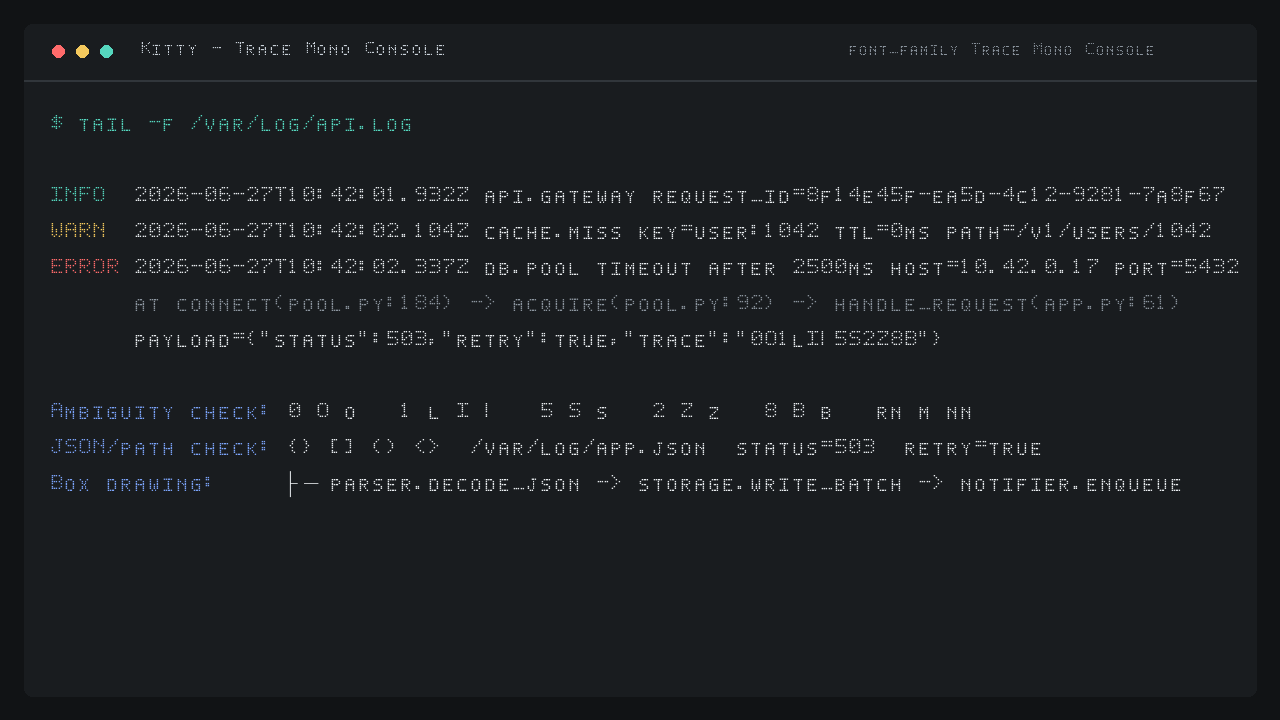
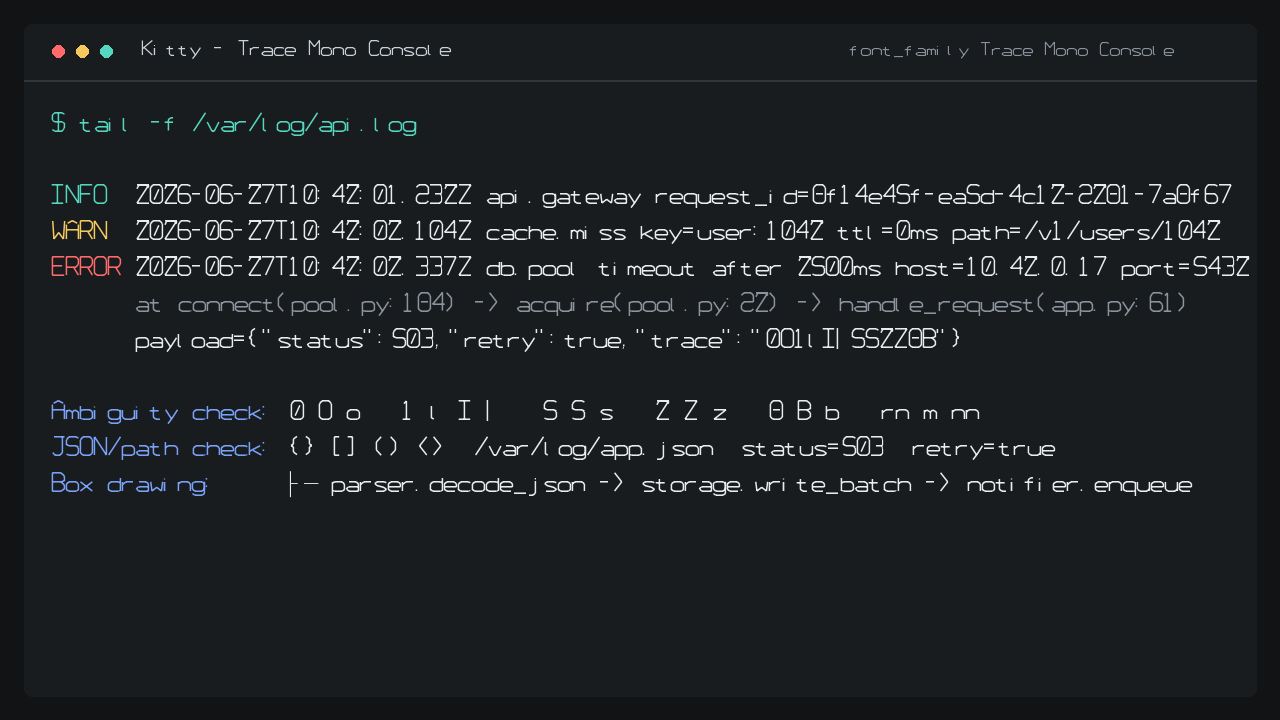
fix: redesign Trace Mono for terminal readability

diff --git a/tools/build.py b/tools/build.py
@@ -30,8 +30,8 @@ class Cut:
 
 
 CUTS = [
-    Cut("Trace Mono Console", "TraceMonoConsole-Regular.ttf", 600, 76, 72),
-    Cut("Trace Mono Inspect", "TraceMonoInspect-Regular.ttf", 640, 92, 70),
+    Cut("Trace Mono Console", "TraceMonoConsole-Regular.ttf", 600, 52, 84),
+    Cut("Trace Mono Inspect", "TraceMonoInspect-Regular.ttf", 640, 70, 82),
 ]
 
 
@@ -182,104 +182,211 @@ DIGIT_SEGMENTS = {
     "9": "ABFGCD",
 }
 
-PIXEL_PATTERNS = {
-    "A": ["01110", "10001", "10001", "11111", "10001", "10001", "10001"],
-    "B": ["11110", "10001", "10001", "11110", "10001", "10001", "11110"],
-    "C": ["01111", "10000", "10000", "10000", "10000", "10000", "01111"],
-    "D": ["11110", "10001", "10001", "10001", "10001", "10001", "11110"],
-    "E": ["11111", "10000", "10000", "11110", "10000", "10000", "11111"],
-    "F": ["11111", "10000", "10000", "11110", "10000", "10000", "10000"],
-    "G": ["01111", "10000", "10000", "10111", "10001", "10001", "01111"],
-    "H": ["10001", "10001", "10001", "11111", "10001", "10001", "10001"],
-    "I": ["11111", "00100", "00100", "00100", "00100", "00100", "11111"],
-    "J": ["00111", "00010", "00010", "00010", "10010", "10010", "01100"],
-    "K": ["10001", "10010", "10100", "11000", "10100", "10010", "10001"],
-    "L": ["10000", "10000", "10000", "10000", "10000", "10000", "11111"],
-    "M": ["10001", "11011", "10101", "10101", "10001", "10001", "10001"],
-    "N": ["10001", "11001", "10101", "10011", "10001", "10001", "10001"],
-    "O": ["01110", "10001", "10001", "10001", "10001", "10001", "01110"],
-    "P": ["11110", "10001", "10001", "11110", "10000", "10000", "10000"],
-    "Q": ["01110", "10001", "10001", "10001", "10101", "10010", "01101"],
-    "R": ["11110", "10001", "10001", "11110", "10100", "10010", "10001"],
-    "S": ["01111", "10000", "10000", "01110", "00001", "00001", "11110"],
-    "T": ["11111", "00100", "00100", "00100", "00100", "00100", "00100"],
-    "U": ["10001", "10001", "10001", "10001", "10001", "10001", "01110"],
-    "V": ["10001", "10001", "10001", "10001", "01010", "01010", "00100"],
-    "W": ["10001", "10001", "10001", "10101", "10101", "10101", "01010"],
-    "X": ["10001", "01010", "01010", "00100", "01010", "01010", "10001"],
-    "Y": ["10001", "01010", "01010", "00100", "00100", "00100", "00100"],
-    "Z": ["11111", "00001", "00010", "00100", "01000", "10000", "11111"],
-    "0": ["01110", "10001", "10011", "10101", "11001", "10001", "01110"],
-    "1": ["00100", "01100", "00100", "00100", "00100", "00100", "01110"],
-    "2": ["01110", "10001", "00001", "00010", "00100", "01000", "11111"],
-    "3": ["11110", "00001", "00001", "01110", "00001", "00001", "11110"],
-    "4": ["00010", "00110", "01010", "10010", "11111", "00010", "00010"],
-    "5": ["11111", "10000", "10000", "11110", "00001", "00001", "11110"],
-    "6": ["01110", "10000", "10000", "11110", "10001", "10001", "01110"],
-    "7": ["11111", "00001", "00010", "00100", "01000", "01000", "01000"],
-    "8": ["01110", "10001", "10001", "01110", "10001", "10001", "01110"],
-    "9": ["01110", "10001", "10001", "01111", "00001", "00001", "01110"],
-    ".": ["00000", "00000", "00000", "00000", "00000", "01100", "01100"],
-    ",": ["00000", "00000", "00000", "00000", "01100", "01100", "01000"],
-    ":": ["00000", "01100", "01100", "00000", "01100", "01100", "00000"],
-    ";": ["00000", "01100", "01100", "00000", "01100", "01100", "01000"],
-    "-": ["00000", "00000", "00000", "11111", "00000", "00000", "00000"],
-    "_": ["00000", "00000", "00000", "00000", "00000", "00000", "11111"],
-    "=": ["00000", "11111", "00000", "11111", "00000", "00000", "00000"],
-    "+": ["00000", "00100", "00100", "11111", "00100", "00100", "00000"],
-    "/": ["00001", "00010", "00010", "00100", "01000", "01000", "10000"],
-    "\\": ["10000", "01000", "01000", "00100", "00010", "00010", "00001"],
-    "|": ["00100", "00100", "00100", "00100", "00100", "00100", "00100"],
-    "(": ["00010", "00100", "01000", "01000", "01000", "00100", "00010"],
-    ")": ["01000", "00100", "00010", "00010", "00010", "00100", "01000"],
-    "[": ["01110", "01000", "01000", "01000", "01000", "01000", "01110"],
-    "]": ["01110", "00010", "00010", "00010", "00010", "00010", "01110"],
-    "{": ["00010", "00100", "00100", "01000", "00100", "00100", "00010"],
-    "}": ["01000", "00100", "00100", "00010", "00100", "00100", "01000"],
-    "<": ["00010", "00100", "01000", "10000", "01000", "00100", "00010"],
-    ">": ["01000", "00100", "00010", "00001", "00010", "00100", "01000"],
-    '"': ["01010", "01010", "01010", "00000", "00000", "00000", "00000"],
-    "'": ["00100", "00100", "00100", "00000", "00000", "00000", "00000"],
-    "`": ["01000", "00100", "00010", "00000", "00000", "00000", "00000"],
-    "!": ["00100", "00100", "00100", "00100", "00100", "00000", "00100"],
-    "?": ["01110", "10001", "00001", "00010", "00100", "00000", "00100"],
-    "#": ["01010", "01010", "11111", "01010", "11111", "01010", "01010"],
-    "$": ["00100", "01111", "10100", "01110", "00101", "11110", "00100"],
-    "%": ["11001", "11010", "00010", "00100", "01000", "01011", "10011"],
-    "&": ["01100", "10010", "10100", "01000", "10101", "10010", "01101"],
-    "*": ["00000", "10101", "01110", "11111", "01110", "10101", "00000"],
-    "@": ["01110", "10001", "10111", "10101", "10111", "10000", "01110"],
-    "^": ["00100", "01010", "10001", "00000", "00000", "00000", "00000"],
-    "~": ["00000", "00000", "01001", "10110", "00000", "00000", "00000"],
-}
 
+def draw_trace_glyph(ch: str, cut: Cut):
+    pen = TTGlyphPen(None)
+    w = cut.width
+    s = cut.stroke * 0.74
+    left = cut.side
+    right = w - cut.side
+    mid = w / 2
+    cap_top = CAP
+    lower_top = X_HEIGHT + 10
 
-def pixel_pattern_for(ch: str) -> tuple[list[str], bool] | None:
-    if ch in PIXEL_PATTERNS:
-        return PIXEL_PATTERNS[ch], False
-    if "a" <= ch <= "z":
-        return PIXEL_PATTERNS[ch.upper()], True
-    return None
+    def sx(x: float) -> float:
+        return left + (right - left) * x / 10
 
+    def sy(y: float, lower: bool) -> float:
+        top = lower_top if lower else cap_top
+        return BASE + top * y / 14
 
-def draw_pixel_pattern(pen: TTGlyphPen, cut: Cut, pattern: list[str], lower: bool) -> None:
-    rows = len(pattern)
-    cols = max(len(row) for row in pattern)
-    height = 520 if lower else 700
-    y0 = 0
-    cell = min((cut.width - 2 * cut.side) / cols, height / rows)
-    block = cell * 0.78
-    total_width = cols * cell
-    x0 = (cut.width - total_width) / 2
-    top = y0 + height
+    def line(x1: float, y1: float, x2: float, y2: float, lower: bool = False, width: float | None = None) -> None:
+        stroke(pen, sx(x1), sy(y1, lower), sx(x2), sy(y2, lower), width or s)
 
-    for row_index, row in enumerate(pattern):
-        for col_index, value in enumerate(row):
-            if value != "1":
-                continue
-            x = x0 + col_index * cell + (cell - block) / 2
-            y = top - (row_index + 1) * cell + (cell - block) / 2
-            rect(pen, round(x), round(y), round(block), round(block))
+    def bowl(x0: float, y0: float, x1: float, y1: float, lower: bool = False, open_left: bool = False, open_right: bool = False) -> None:
+        if not open_left:
+            line(x0, y0 + 1, x0, y1 - 1, lower)
+        if not open_right:
+            line(x1, y0 + 1, x1, y1 - 1, lower)
+        line(x0 + 1, y1, x1 - 1, y1, lower)
+        line(x0 + 1, y0, x1 - 1, y0, lower)
+
+    uppercase = {
+        "A": [(0, 0, 0, 11), (10, 0, 10, 11), (1, 12, 5, 14), (9, 12, 5, 14), (0, 7, 10, 7)],
+        "B": [(0, 0, 0, 14), (0, 14, 7, 14), (7, 14, 10, 12), (10, 12, 10, 8), (10, 8, 7, 7), (0, 7, 7, 7), (7, 7, 10, 5), (10, 5, 10, 2), (10, 2, 7, 0), (0, 0, 7, 0)],
+        "C": [(10, 13, 8, 14), (8, 14, 2, 14), (2, 14, 0, 12), (0, 12, 0, 2), (0, 2, 2, 0), (2, 0, 8, 0), (8, 0, 10, 1)],
+        "D": [(0, 0, 0, 14), (0, 14, 7, 14), (7, 14, 10, 11), (10, 11, 10, 3), (10, 3, 7, 0), (0, 0, 7, 0)],
+        "E": [(0, 0, 0, 14), (0, 14, 10, 14), (0, 7, 8, 7), (0, 0, 10, 0)],
+        "F": [(0, 0, 0, 14), (0, 14, 10, 14), (0, 7, 8, 7)],
+        "G": [(10, 13, 8, 14), (8, 14, 2, 14), (2, 14, 0, 12), (0, 12, 0, 2), (0, 2, 2, 0), (2, 0, 8, 0), (8, 0, 10, 2), (10, 2, 10, 6), (6, 6, 10, 6)],
+        "H": [(0, 0, 0, 14), (10, 0, 10, 14), (0, 7, 10, 7)],
+        "I": [(0, 14, 10, 14), (5, 14, 5, 0), (0, 0, 10, 0)],
+        "J": [(1, 14, 10, 14), (8, 14, 8, 2), (8, 2, 6, 0), (6, 0, 2, 0), (2, 0, 0, 2)],
+        "K": [(0, 0, 0, 14), (10, 14, 0, 6), (2, 7, 10, 0)],
+        "L": [(0, 14, 0, 0), (0, 0, 10, 0)],
+        "M": [(0, 0, 0, 14), (0, 14, 5, 8), (5, 8, 10, 14), (10, 14, 10, 0)],
+        "N": [(0, 0, 0, 14), (0, 14, 10, 0), (10, 0, 10, 14)],
+        "O": [(2, 0, 8, 0), (8, 0, 10, 2), (10, 2, 10, 12), (10, 12, 8, 14), (8, 14, 2, 14), (2, 14, 0, 12), (0, 12, 0, 2), (0, 2, 2, 0)],
+        "P": [(0, 0, 0, 14), (0, 14, 8, 14), (8, 14, 10, 12), (10, 12, 10, 8), (10, 8, 8, 6), (0, 6, 8, 6)],
+        "Q": [(2, 0, 8, 0), (8, 0, 10, 2), (10, 2, 10, 12), (10, 12, 8, 14), (8, 14, 2, 14), (2, 14, 0, 12), (0, 12, 0, 2), (0, 2, 2, 0), (6, 3, 10, -1)],
+        "R": [(0, 0, 0, 14), (0, 14, 8, 14), (8, 14, 10, 12), (10, 12, 10, 8), (10, 8, 8, 6), (0, 6, 8, 6), (6, 6, 10, 0)],
+        "S": [(10, 13, 8, 14), (8, 14, 2, 14), (2, 14, 0, 12), (0, 12, 0, 8), (0, 8, 2, 7), (2, 7, 8, 7), (8, 7, 10, 6), (10, 6, 10, 2), (10, 2, 8, 0), (8, 0, 2, 0), (2, 0, 0, 1)],
+        "T": [(0, 14, 10, 14), (5, 14, 5, 0)],
+        "U": [(0, 14, 0, 2), (0, 2, 2, 0), (2, 0, 8, 0), (8, 0, 10, 2), (10, 2, 10, 14)],
+        "V": [(0, 14, 4, 0), (10, 14, 6, 0), (4, 0, 6, 0)],
+        "W": [(0, 14, 1, 0), (1, 0, 5, 5), (5, 5, 9, 0), (9, 0, 10, 14)],
+        "X": [(0, 14, 10, 0), (10, 14, 0, 0)],
+        "Y": [(0, 14, 5, 7), (10, 14, 5, 7), (5, 7, 5, 0)],
+        "Z": [(0, 14, 10, 14), (10, 14, 0, 0), (0, 0, 10, 0)],
+    }
+
+    lowercase = {
+        "a": [(2, 10, 8, 10), (8, 10, 10, 8), (10, 8, 10, 0), (10, 5, 2, 5), (2, 5, 0, 3), (0, 3, 0, 2), (0, 2, 2, 0), (2, 0, 10, 0)],
+        "b": [(0, 0, 0, 14), (0, 9, 2, 10), (2, 10, 8, 10), (8, 10, 10, 8), (10, 8, 10, 2), (10, 2, 8, 0), (8, 0, 2, 0), (2, 0, 0, 1)],
+        "c": [(10, 9, 8, 10), (8, 10, 2, 10), (2, 10, 0, 8), (0, 8, 0, 2), (0, 2, 2, 0), (2, 0, 8, 0), (8, 0, 10, 1)],
+        "d": [(10, 0, 10, 14), (10, 9, 8, 10), (8, 10, 2, 10), (2, 10, 0, 8), (0, 8, 0, 2), (0, 2, 2, 0), (2, 0, 8, 0), (8, 0, 10, 1)],
+        "e": [(0, 5, 10, 5), (10, 5, 10, 8), (10, 8, 8, 10), (8, 10, 2, 10), (2, 10, 0, 8), (0, 8, 0, 2), (0, 2, 2, 0), (2, 0, 9, 0)],
+        "f": [(8, 14, 6, 14), (6, 14, 4, 12), (4, 12, 4, 0), (1, 9, 8, 9)],
+        "g": [(10, 10, 10, -3), (10, -3, 8, -5), (8, -5, 2, -5), (2, -5, 0, -3), (2, 10, 8, 10), (8, 10, 10, 8), (10, 8, 10, 2), (10, 2, 8, 0), (8, 0, 2, 0), (2, 0, 0, 2), (0, 2, 0, 8), (0, 8, 2, 10)],
+        "h": [(0, 0, 0, 14), (0, 8, 2, 10), (2, 10, 8, 10), (8, 10, 10, 8), (10, 8, 10, 0)],
+        "i": [(5, 10, 5, 0)],
+        "j": [(6, 10, 6, -3), (6, -3, 4, -5), (4, -5, 1, -5)],
+        "k": [(0, 0, 0, 14), (9, 10, 0, 4), (3, 5, 10, 0)],
+        "l": [(4, 14, 4, 1), (4, 1, 6, 0)],
+        "m": [(0, 0, 0, 10), (0, 8, 2, 10), (2, 10, 5, 8), (5, 8, 5, 0), (5, 8, 7, 10), (7, 10, 10, 8), (10, 8, 10, 0)],
+        "n": [(0, 0, 0, 10), (0, 8, 2, 10), (2, 10, 8, 10), (8, 10, 10, 8), (10, 8, 10, 0)],
+        "o": [(2, 0, 8, 0), (8, 0, 10, 2), (10, 2, 10, 8), (10, 8, 8, 10), (8, 10, 2, 10), (2, 10, 0, 8), (0, 8, 0, 2), (0, 2, 2, 0)],
+        "p": [(0, -5, 0, 10), (0, 9, 2, 10), (2, 10, 8, 10), (8, 10, 10, 8), (10, 8, 10, 2), (10, 2, 8, 0), (8, 0, 2, 0), (2, 0, 0, 1)],
+        "q": [(10, -5, 10, 10), (10, 9, 8, 10), (8, 10, 2, 10), (2, 10, 0, 8), (0, 8, 0, 2), (0, 2, 2, 0), (2, 0, 8, 0), (8, 0, 10, 1)],
+        "r": [(0, 0, 0, 10), (0, 7, 3, 10), (3, 10, 9, 10)],
+        "s": [(10, 9, 8, 10), (8, 10, 2, 10), (2, 10, 0, 8), (0, 8, 2, 6), (2, 6, 8, 4), (8, 4, 10, 2), (10, 2, 8, 0), (8, 0, 1, 0)],
+        "t": [(4, 13, 4, 2), (4, 2, 6, 0), (6, 0, 9, 0), (1, 9, 8, 9)],
+        "u": [(0, 10, 0, 2), (0, 2, 2, 0), (2, 0, 8, 0), (8, 0, 10, 2), (10, 10, 10, 0)],
+        "v": [(0, 10, 4, 0), (10, 10, 6, 0), (4, 0, 6, 0)],
+        "w": [(0, 10, 1, 0), (1, 0, 5, 4), (5, 4, 9, 0), (9, 0, 10, 10)],
+        "x": [(0, 10, 10, 0), (10, 10, 0, 0)],
+        "y": [(0, 10, 5, 0), (10, 10, 5, 0), (5, 0, 2, -5)],
+        "z": [(0, 10, 10, 10), (10, 10, 0, 0), (0, 0, 10, 0)],
+    }
+
+    digits = {
+        "0": uppercase["O"] + [(3, 3, 7, 11)],
+        "1": [(5, 14, 5, 0), (3, 12, 5, 14), (2, 0, 8, 0)],
+        "2": uppercase["Z"][:-1] + [(0, 0, 10, 0), (0, 11, 2, 14), (2, 14, 8, 14), (8, 14, 10, 12)],
+        "3": [(0, 14, 9, 14), (9, 14, 10, 12), (10, 12, 10, 8), (10, 8, 8, 7), (4, 7, 9, 7), (9, 7, 10, 5), (10, 5, 10, 2), (10, 2, 8, 0), (8, 0, 0, 0)],
+        "4": [(8, 0, 8, 14), (0, 5, 10, 5), (0, 5, 8, 14)],
+        "5": uppercase["S"][:],
+        "6": [(10, 13, 8, 14), (8, 14, 2, 14), (2, 14, 0, 11), (0, 11, 0, 2), (0, 2, 2, 0), (2, 0, 8, 0), (8, 0, 10, 2), (10, 2, 10, 5), (10, 5, 8, 7), (8, 7, 0, 7)],
+        "7": [(0, 14, 10, 14), (10, 14, 3, 0)],
+        "8": uppercase["O"] + [(2, 7, 8, 7)],
+        "9": [(10, 2, 8, 0), (8, 0, 2, 0), (2, 0, 0, 2), (0, 2, 0, 5), (0, 5, 2, 7), (2, 7, 10, 7), (10, 7, 10, 12), (10, 12, 8, 14), (8, 14, 2, 14), (2, 14, 0, 12)],
+    }
+
+    if ch in uppercase:
+        for seg in uppercase[ch]:
+            line(*seg)
+        return pen.glyph()
+    if ch in lowercase:
+        for seg in lowercase[ch]:
+            line(*seg, lower=True)
+        if ch == "i":
+            dot(pen, sx(5), sy(13, True), s * 0.82)
+        elif ch == "j":
+            dot(pen, sx(6), sy(13, True), s * 0.82)
+        return pen.glyph()
+    if ch in digits:
+        for seg in digits[ch]:
+            line(*seg)
+        return pen.glyph()
+
+    if ch == ".":
+        dot(pen, mid, 34, s * 0.9)
+    elif ch == ",":
+        dot(pen, mid, 62, s * 0.9)
+        stroke(pen, mid + 8, 28, mid - 32, -80, s * 0.5)
+    elif ch == ":":
+        dot(pen, mid, 180, s * 0.78)
+        dot(pen, mid, 470, s * 0.78)
+    elif ch == ";":
+        dot(pen, mid, 470, s * 0.78)
+        dot(pen, mid, 180, s * 0.78)
+        stroke(pen, mid + 8, 146, mid - 32, 40, s * 0.5)
+    elif ch == "-":
+        stroke(pen, sx(1.5), sy(7, False), sx(8.5), sy(7, False), s)
+    elif ch == "_":
+        stroke(pen, sx(0), -70, sx(10), -70, s)
+    elif ch == "=":
+        stroke(pen, sx(1), sy(8, False), sx(9), sy(8, False), s * 0.85)
+        stroke(pen, sx(1), sy(5, False), sx(9), sy(5, False), s * 0.85)
+    elif ch == "+":
+        stroke(pen, sx(1), sy(7, False), sx(9), sy(7, False), s * 0.85)
+        stroke(pen, sx(5), sy(3, False), sx(5), sy(11, False), s * 0.85)
+    elif ch == "/":
+        line(10, 14, 0, 0)
+    elif ch == "\\":
+        line(0, 14, 10, 0)
+    elif ch == "|":
+        stroke(pen, mid, DESCENT * 0.35, mid, ASCENT * 0.9, s * 0.72)
+    elif ch == "!":
+        stroke(pen, mid, 170, mid, CAP, s)
+        dot(pen, mid, 34, s * 0.9)
+    elif ch == "?":
+        for seg in [(1, 12, 3, 14), (3, 14, 7, 14), (7, 14, 9, 12), (9, 12, 9, 10), (9, 10, 5, 7), (5, 7, 5, 5)]:
+            line(*seg)
+        dot(pen, mid, 34, s * 0.9)
+    elif ch in "()[]{}<>":
+        pairs = {
+            "(": [(7, 14, 3, 10), (3, 10, 3, 4), (3, 4, 7, 0)],
+            ")": [(3, 14, 7, 10), (7, 10, 7, 4), (7, 4, 3, 0)],
+            "[": [(7, 14, 3, 14), (3, 14, 3, 0), (3, 0, 7, 0)],
+            "]": [(3, 14, 7, 14), (7, 14, 7, 0), (7, 0, 3, 0)],
+            "{": [(7, 14, 4, 12), (4, 12, 4, 8), (4, 8, 2, 7), (2, 7, 4, 6), (4, 6, 4, 2), (4, 2, 7, 0)],
+            "}": [(3, 14, 6, 12), (6, 12, 6, 8), (6, 8, 8, 7), (8, 7, 6, 6), (6, 6, 6, 2), (6, 2, 3, 0)],
+            "<": [(8, 14, 2, 7), (2, 7, 8, 0)],
+            ">": [(2, 14, 8, 7), (8, 7, 2, 0)],
+        }
+        for seg in pairs[ch]:
+            line(*seg)
+    elif ch in ('"', "'", "`"):
+        if ch == '"':
+            stroke(pen, sx(3), sy(14, False), sx(3), sy(11, False), s * 0.7)
+            stroke(pen, sx(7), sy(14, False), sx(7), sy(11, False), s * 0.7)
+        elif ch == "'":
+            stroke(pen, mid, sy(14, False), mid, sy(11, False), s * 0.7)
+        else:
+            line(3, 14, 5, 12)
+    elif ch == "#":
+        for seg in [(3, 14, 2, 0), (8, 14, 7, 0), (0, 9, 10, 9), (0, 5, 10, 5)]:
+            line(*seg, width=s * 0.75)
+    elif ch == "$":
+        for seg in uppercase["S"]:
+            line(*seg, width=s * 0.85)
+        stroke(pen, mid, -45, mid, CAP + 45, s * 0.6)
+    elif ch == "%":
+        bowl(0, 9, 4, 14)
+        bowl(6, 0, 10, 5)
+        line(10, 14, 0, 0, width=s * 0.75)
+    elif ch == "&":
+        for seg in [(7, 14, 3, 14), (3, 14, 1, 12), (1, 12, 1, 10), (1, 10, 10, 0), (3, 7, 0, 4), (0, 4, 0, 2), (0, 2, 2, 0), (2, 0, 7, 0), (7, 0, 10, 3)]:
+            line(*seg)
+    elif ch == "*":
+        for seg in [(5, 12, 5, 2), (1, 10, 9, 4), (9, 10, 1, 4)]:
+            line(*seg, width=s * 0.8)
+    elif ch == "@":
+        for seg in uppercase["O"]:
+            line(*seg, width=s * 0.85)
+        for seg in [(7, 3, 4, 3), (4, 3, 3, 5), (3, 5, 3, 8), (3, 8, 5, 10), (5, 10, 8, 10), (8, 10, 8, 3), (8, 3, 10, 3)]:
+            line(*seg, width=s * 0.75)
+    elif ch == "^":
+        line(2, 9, 5, 14)
+        line(5, 14, 8, 9)
+    elif ch == "~":
+        line(1, 6, 3, 8, width=s * 0.75)
+        line(3, 8, 7, 6, width=s * 0.75)
+        line(7, 6, 9, 8, width=s * 0.75)
+    else:
+        return None
+    return pen.glyph()
 
 
 def draw_ascii_glyph(ch: str, cut: Cut):
@@ -292,11 +399,9 @@ def draw_ascii_glyph(ch: str, cut: Cut):
 
     if ch in (" ", "\u00a0"):
         return empty_glyph()
-    pixel_pattern = pixel_pattern_for(ch)
-    if pixel_pattern is not None:
-        pattern, lower = pixel_pattern
-        draw_pixel_pattern(pen, cut, pattern, lower)
-        return pen.glyph()
+    trace_glyph = draw_trace_glyph(ch, cut)
+    if trace_glyph is not None:
+        return trace_glyph
     if ch.isdigit():
         draw_segments(pen, cut, DIGIT_SEGMENTS[ch])
         if ch == "0":

diff --git a/sources/design.md b/sources/design.md
@@ -14,11 +14,16 @@ Trace Mono starts from log text instead of prose.
 
 ## Shape Language
 
-- Pixel-outline construction for crisp terminal rendering.
-- Squared counters for repeatable terminal rhythm.
-- Large punctuation with consistent optical centers.
-- Uppercase and lowercase share a compact scan-friendly rhythm.
-- Digits are tall, open, and intentionally distinct.
+- Conventional monoline construction, closer to the expectations set by
+  well-known terminal fonts such as Menlo, SF Mono, JetBrains Mono, Berkeley
+  Mono, and Iosevka.
+- High x-height and open counters so lowercase words remain readable in dense
+  logs.
+- Wide, centered punctuation for timestamps, JSON, paths, and stack traces.
+- Tabular digits with explicit differentiation between `0 O o`, `1 l I |`,
+  `5 S`, `2 Z`, and `8 B`.
+- Personality should come from small terminal-focused decisions, not novelty
+  shapes.
 
 ## First Character Set
 